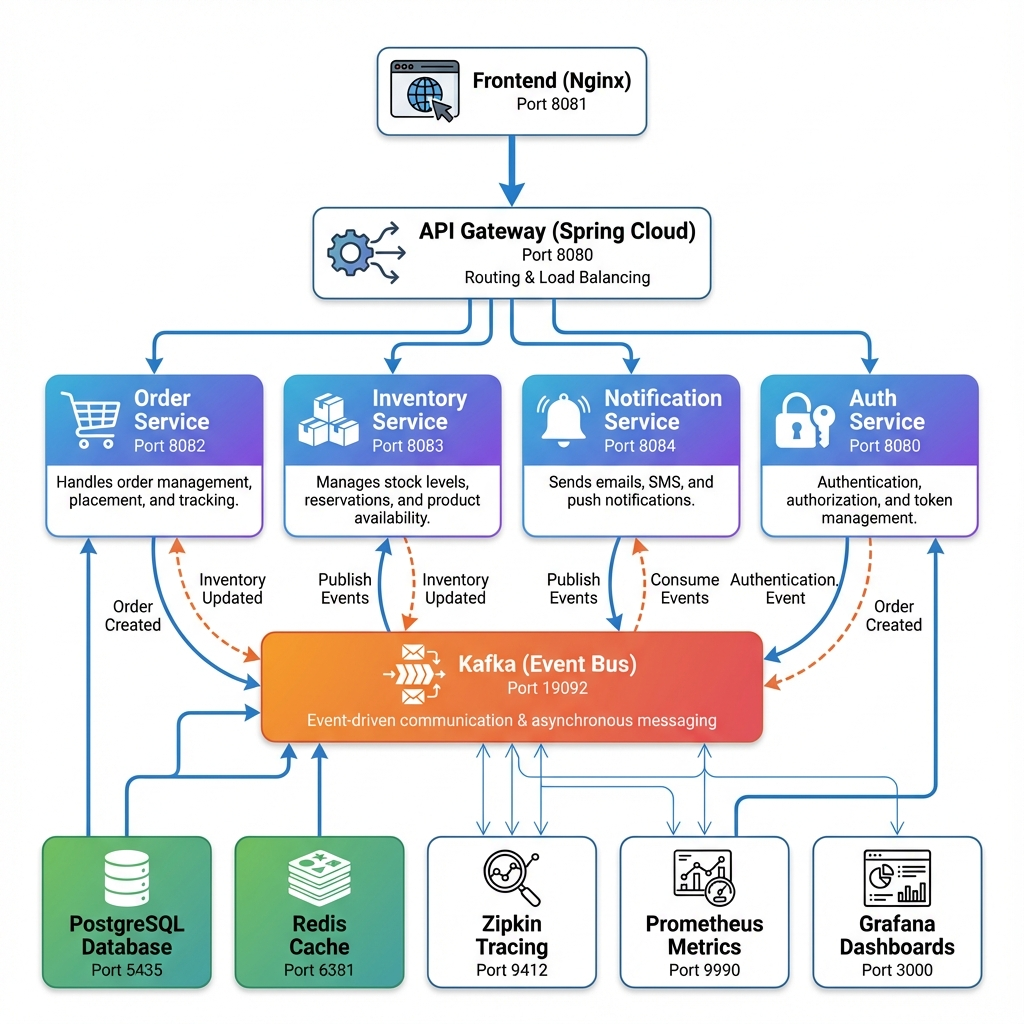
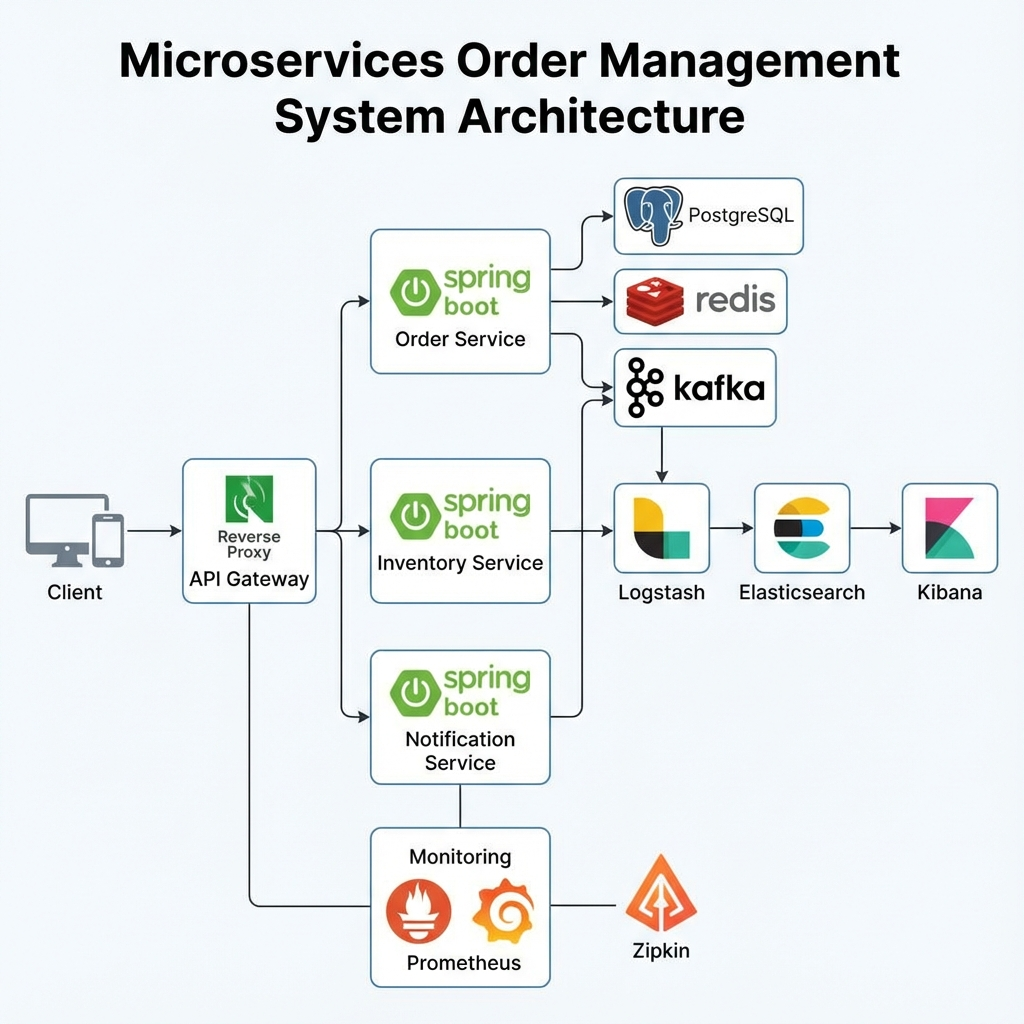
Update architecture diagram with ELK stack

diff --git a/README.md b/README.md
@@ -35,40 +35,6 @@ graph TB
     
     Kafka[Apache Kafka<br/>Event Bus :19092]
     
-    DB[(PostgreSQL<br/>:5435)]
-    Cache[(Redis<br/>:6381)]
-    Trace[Zipkin<br/>:9412]
-    Metrics[Prometheus<br/>:9990]
-    Dash[Grafana<br/>:3000]
-    
-    Client --> Frontend
-    Frontend --> Gateway
-    Gateway --> Order
-    Gateway --> Inventory
-    Gateway --> Notification
-    Gateway --> Auth
-    
-    Order --> DB
-    Order --> Cache
-    Order --> Kafka
-    
-    Inventory --> DB
-    Inventory --> Kafka
-    
-    Notification --> Kafka
-    
-    Order -.-> Trace
-    Inventory -.-> Trace
-    Notification -.-> Trace
-    Gateway -.-> Trace
-    
-    Order -.-> Metrics
-    Inventory -.-> Metrics
-    Notification -.-> Metrics
-    Gateway -.-> Metrics
-    
-    Metrics --> Dash
-    
     style Order fill:#4A90E2
     style Inventory fill:#4A90E2
     style Notification fill:#4A90E2
